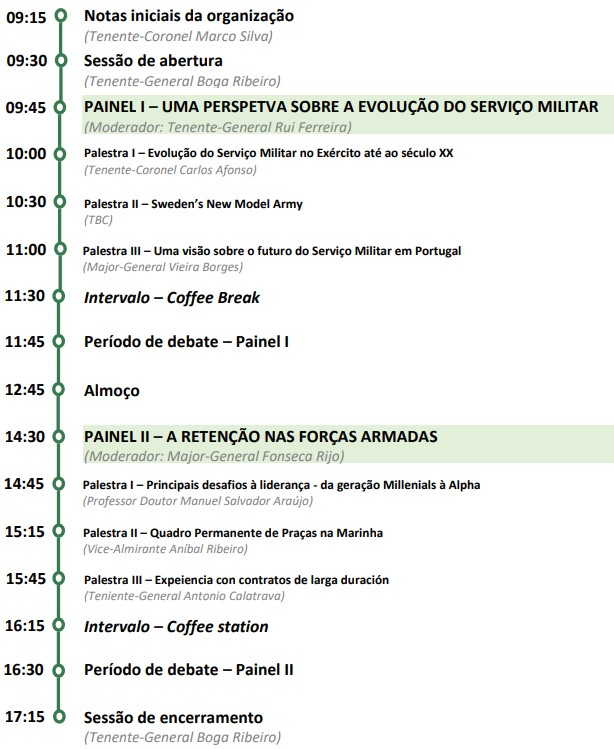
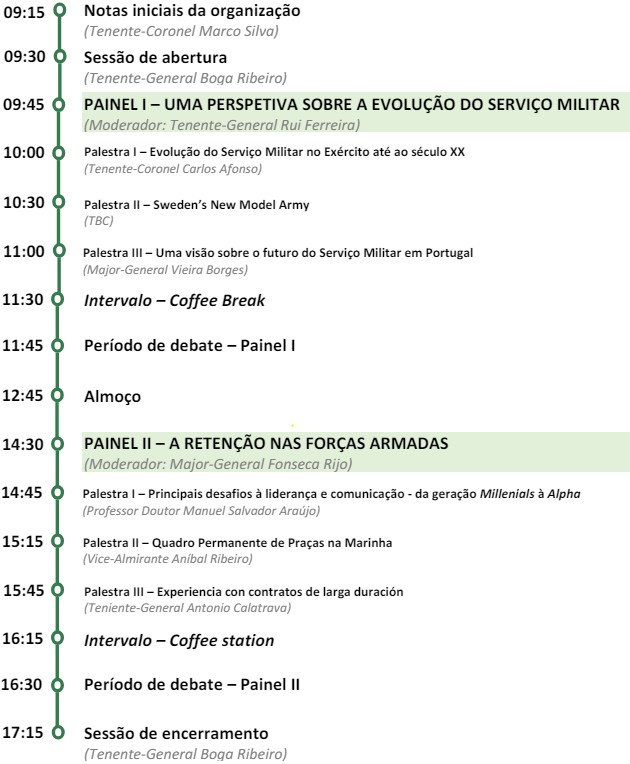
Update data

Changed region(s): [[0.0, 0.0, 1.0, 1.0]]

diff --git a/eventos/seminario-servico-militar-passado-presente-futuro-2024/index.html b/eventos/seminario-servico-militar-passado-presente-futuro-2024/index.html
@@ -115,14 +115,10 @@
     <div class="container">
       <div class="media-container-row">
         <div class="mbr-text col-12 mbr-fonts-style display-4 col-md-8">
-          <p>Este evento, que decorre no âmbito das comemorações do Dia do Comando do Pessoal do Exército Português,
-            visa promover a reflexão acerca do serviço militar numa perspetiva abrangente, de cariz nacional e
-            internacional. </p>
-          <p>O público-alvo deste Seminário compreende, não apenas as Entidades militares com intervenção nos processos
-            de planeamento e gestão de recursos humanos nas Forças Armadas Portuguesas, como também os Comandantes,
-            Diretores e Chefes das diferentes Unidades, Estabelecimentos e Órgãos do Exército, cujo exercício da sua
-            sóbria e esclarecida liderança, contribui diariamente de forma decisiva para o cumprimento da missão
-            atribuída ao Exército e às Forças Armadas.&nbsp;</p>
+          <p>Este evento, visa promover a reflexão acerca do serviço militar numa perspetiva abrangente, de cariz nacional e internacional. 
+          </p>
+          <p> O público-alvo deste Seminário compreende, não apenas as entidades militares e civis com intervenção no desenvolvimento das práticas, das políticas e do planeamento associado à gestão de recursos humanos nas Forças Armadas Portuguesas, bem como, as entidades académicas que desenvolvem atividades de docência ou investigação neste âmbito, e os atuais e futuros Comandantes, Diretores e Chefes das diferentes Unidades, Estabelecimentos e Órgãos do Exército, cujo exercício da sua sóbria e esclarecida liderança, contribui diariamente e de forma determinante para o cumprimento da missão do Exército e das Forças Armadas.
+          </p>
         </div>
       </div>
     </div>
@@ -188,7 +184,7 @@
                     <br>Exército Sueco
                     <br><br>🕗 10:30&nbsp;<br>
                     <strong>PAINEL I - PALESTRA II</strong><br>
-                    <strong>Sweden'ss New Model Army</strong>
+                    <strong>Sweden's New Model Army</strong>
                     <br><br>
                   </p>
               </div>
@@ -207,7 +203,7 @@
                 <p class="mbr-fonts-style display-7">
                   <br><strong>Major-General João Jorge Botelho Vieira Borges</strong>
                   <br>Coordenador da SEDES para a área da Segurança e Defesa e Presidente da Comissão Portuguesa de História Militar
-                  <br><br>🕗 11:30&nbsp;<strong>
+                  <br><br>🕗 11:00&nbsp;<strong>
                   <br>PAINEL I - PALESTRA III</strong><br>
                   <strong>Uma visão sobre o futuro do Serviço Militar em Portugal</strong>
                 </p>
@@ -231,9 +227,9 @@
                   Licenciado, Mestre e Doutor em Psicologia pela Universidade do Minho e Executive Master em Liderança e Coaching Organizacional pela EADA Business School de Barcelona. Foi Diretor do Curso de Recursos Humanos do Politécnico do Porto, e atualmente ministra diversas Unidades Curriculares no mesmo instituto, nas áreas da Psicologia, Comunicação Interpessoal, Comportamento Organizacional, Liderança e Desenvolvimento de Equipas.
                   <br>
                   É investigador no Centro de Estudos Organizacionais e Sociais do Politécnico do Porto e membro da Applied Management Research Unite, sediado em Bragança, do Centro Científico Personas que Trabajan en Organizaciones, em Barcelona, e da Porto Executive Academy, no Politécnico do Porto.
-                  <br><br>🕗 14:20&nbsp;
+                  <br><br>🕗 14:45&nbsp;
                   <strong><br>PAINEL II - PALESTRA I</strong>
-                  <br><strong>Principais desafios à liderança - da geração Millenials à Alpha</strong>
+                  <br><strong>Principais desafios à liderança e comunicação - da geração Millenials à Alpha</strong>
                 </p>
               </div>
 
@@ -250,12 +246,13 @@
             </div>
             <div class="testimonials-caption col-lg-9 col-md-8">
               <div class="user_text">
-                <p class="mbr-fonts-style display-7"><br><strong>Lieutenant General Antonio Jesús Cabrerizo Calatrava</strong>
-                  <br>Jefe del Mando de Personal del Ejército de Tierra
+                <p class="mbr-fonts-style display-7"><br><strong>Vice-almirante Aníbal Soares Ribeiro</strong>
+                  <br>Superintendente do Pessoal da Marinha
                   <br><br>
-
-
-                  <br><br>🕗 14:50&nbsp;<strong>
+                  Licenciado em Ciências Militares Navais ramo Marinha - Oceanologia em 1986, é especializado em Armas Submarinas, possui ainda o Curso Geral Naval de Guerra e o Curso de Promoção a Oficial General. No mar, desempenhou funções de comandante, imediato e Chefe de Serviço a bordo de diversas unidades navais. Foi ainda Chefe de Estado-Maior dos comandantes da Força Naval Portuguesa e da Força de Reação Imediata, somando treze mil horas de navegação.
+                  <br>
+                  Em terra, foi Comandante, Diretor, 2º Comandante, Oficial de Estado-Maior nacional e internacional e Ajudante de Campo do Almirante Chefe de Estado-Maior da Armada. Foi ainda, Diretor de Formação, de Diretor de Pessoal e Subchefe do Estado-Maior da Armada. Assumiu as atuais funções de Superintendente de Pessoal, em 6 de setembro de 2021.
+                  <br><br>🕗 15:15&nbsp;<strong>
                     <br>PAINEL II - PALESTRA II</strong>
                   <br><strong>Quadro Permanente de Praças na Marinha</strong>
                 </p>
@@ -273,14 +270,11 @@
             <div class="testimonials-caption col-lg-9 col-md-8">
               <div class="user_text">
                 <p class="mbr-fonts-style display-7">
-                  <br><strong>Vice-almirante Aníbal Soares Ribeiro</strong>
-                  <br>Superintendente do Pessoal da Marinha
+                  <br><strong>Lieutenant General Antonio Jesús Cabrerizo Calatrava</strong>
+                  <br>Jefe del Mando de Personal del Ejército de Tierra
                   <br><br>
-                  Licenciado em Ciências Militares Navais ramo Marinha - Oceanologia em 1986, é especializado em Armas Submarinas, possui ainda o Curso Geral Naval de Guerra e o Curso de Promoção a Oficial General. No mar, desempenhou funções de comandante, imediato e Chefe de Serviço a bordo de diversas unidades navais. Foi ainda Chefe de Estado-Maior dos comandantes da Força Naval Portuguesa e da Força de Reação Imediata, somando treze mil horas de navegação.
-                  <br>
-                  Em terra, foi Comandante, Diretor, 2º Comandante, Oficial de Estado-Maior nacional e internacional e Ajudante de Campo do Almirante Chefe de Estado-Maior da Armada. Foi ainda, Diretor de Formação, de Diretor de Pessoal e Subchefe do Estado-Maior da Armada. Assumiu as atuais funções de Superintendente de Pessoal, em 6 de setembro de 2021.
-                  <br><br>🕗 15:20&nbsp;<strong><br>PAINEL II - PALESTRA III</strong>
-                  <br><strong>Expeiencia con contratos de larga duración</strong>
+                  <br><br>🕗 15:45&nbsp;<strong><br>PAINEL II - PALESTRA III</strong>
+                  <br><strong>Experiencia com contratos de larga duración</strong>
                 </p>
               </div>
 
@@ -320,9 +314,9 @@
                   Ao nível do ensino e formação, as funções de Diretor do Tirocínio para Oficiais de Cavalaria e instrutor de Tática de Cavalaria na Escola Prática de Cavalaria, instrutor de Tática de Cavalaria na Academia Militar e professor de Estratégia e de Geopolítica no Instituto de Altos Estudos Militares.
                   <br><br>
                   Da sua experiência profissional faz parte ainda a participação, em 1993/94, na Missão de Observadores Militares no conflito da Ex-Jugoslávia, a participação em 2005 na Missão de Treino da NATO no Iraque e foi Comandante da Força Nacional Destacada para o Teatro de Operações da Bósnia-Herzegovina, durante o 1º semestre de 2006, integrando a “Operação ALTHEA" da União Europeia.
-                  <br><br>🕗 12:00
+                  <br><br>🕗 11:45
                   <br><strong>DEBATE - PAINEL I</strong>
-                  <br>Uma perspetiva sobre a evolulão do serviço militar
+                  <br>Uma perspetiva sobre a evolução do serviço militar
                 </p>
               </div>
             </div>
@@ -352,9 +346,9 @@
                   Ao nível do ensino e formação, no Instituto de Altos Estudos Militares foi professor nas áreas da Logística, Técnica de Estado-Maior, Informação Pública e Gestão da Formação, tendo ainda exercido as funções de Coordenador da Área de Ensino Específico do Exército e de Oficial de Ligação ao Exército no Instituto Universitário Militar.
                   <br><br>
                   Da sua experiência profissional faz parte ainda a participação, no 7º Contingente Nacional da ISAF, no Afeganistão, como Senior Advisor da Military Advisory Team.
-                  <br><br>🕗 15:50
+                  <br><br>🕗 16:30
                   <br><strong>DEBATE -&nbsp;PAINEL II</strong>
-                  <br>Identificação de potencial no apoio à decisão
+                  <br>A retenção nas Forças Armadas
                 </p>
               </div>
             </div>
